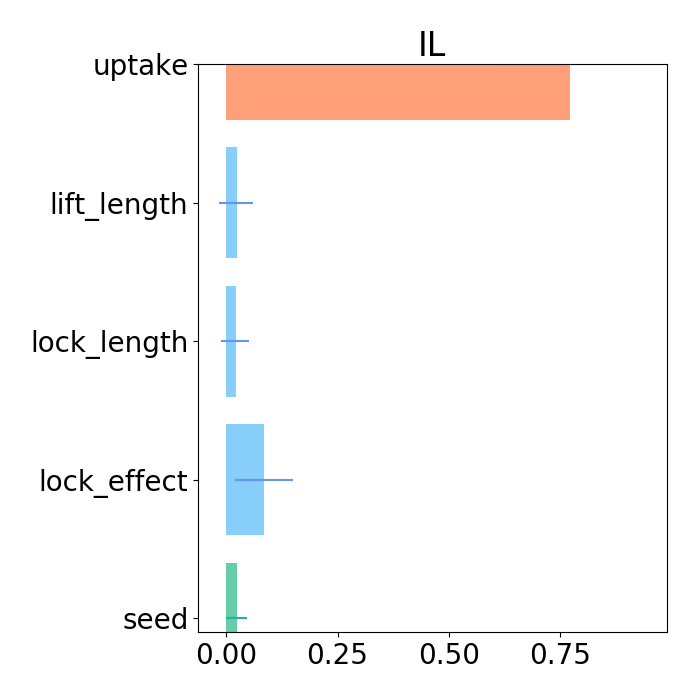
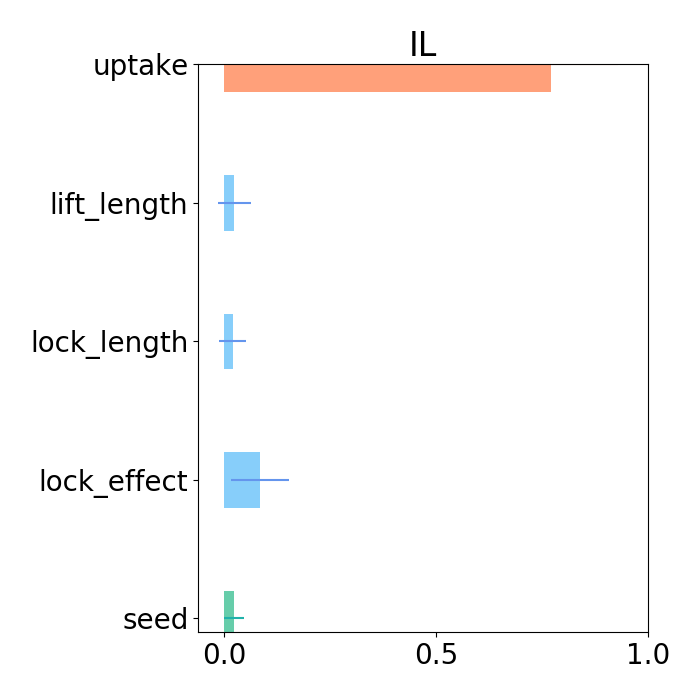
reduce width of bars and fix x-ticks

diff --git a/examples/virsim/sobol_corona_IL.py b/examples/virsim/sobol_corona_IL.py
@@ -142,12 +142,14 @@ ax_ICp_max.set_ylim([-.1, 1.1])
 #     fmt='o', elinewidth=2, color='forestgreen')
 ax_ICp_max.barh(np.arange(0, len(params), 1), sobol_idx_ICp, xerr=yerr_ICp, linewidth=2, \
     color=['mediumaquamarine','lightskyblue','lightskyblue','lightskyblue', 'lightsalmon'], \
-    ecolor=['lightseagreen','cornflowerblue','cornflowerblue','cornflowerblue','salmon'])
+    ecolor=['lightseagreen','cornflowerblue','cornflowerblue','cornflowerblue','salmon'], \
+    height=0.4)
 # ax_ICe_max.errorbar(np.arange(0, len(params), 1), sobol_idx_ICe, yerr=yerr_ICe, \
 #     fmt='o', elinewidth=2, color='forestgreen')
 
 labels = ['seed', 'lock_effect', 'lock_length', 'lift_length', 'uptake']
 
+ax_ICp_max.set_xticks([0.0, 0.5, 1.0])
 ax_ICp_max.set_yticks(np.arange(0, len(labels), 1))
 ax_ICp_max.set_yticklabels(labels)
 # ax_ICe_max.set_xticks(np.arange(0, len(labels), 1))
